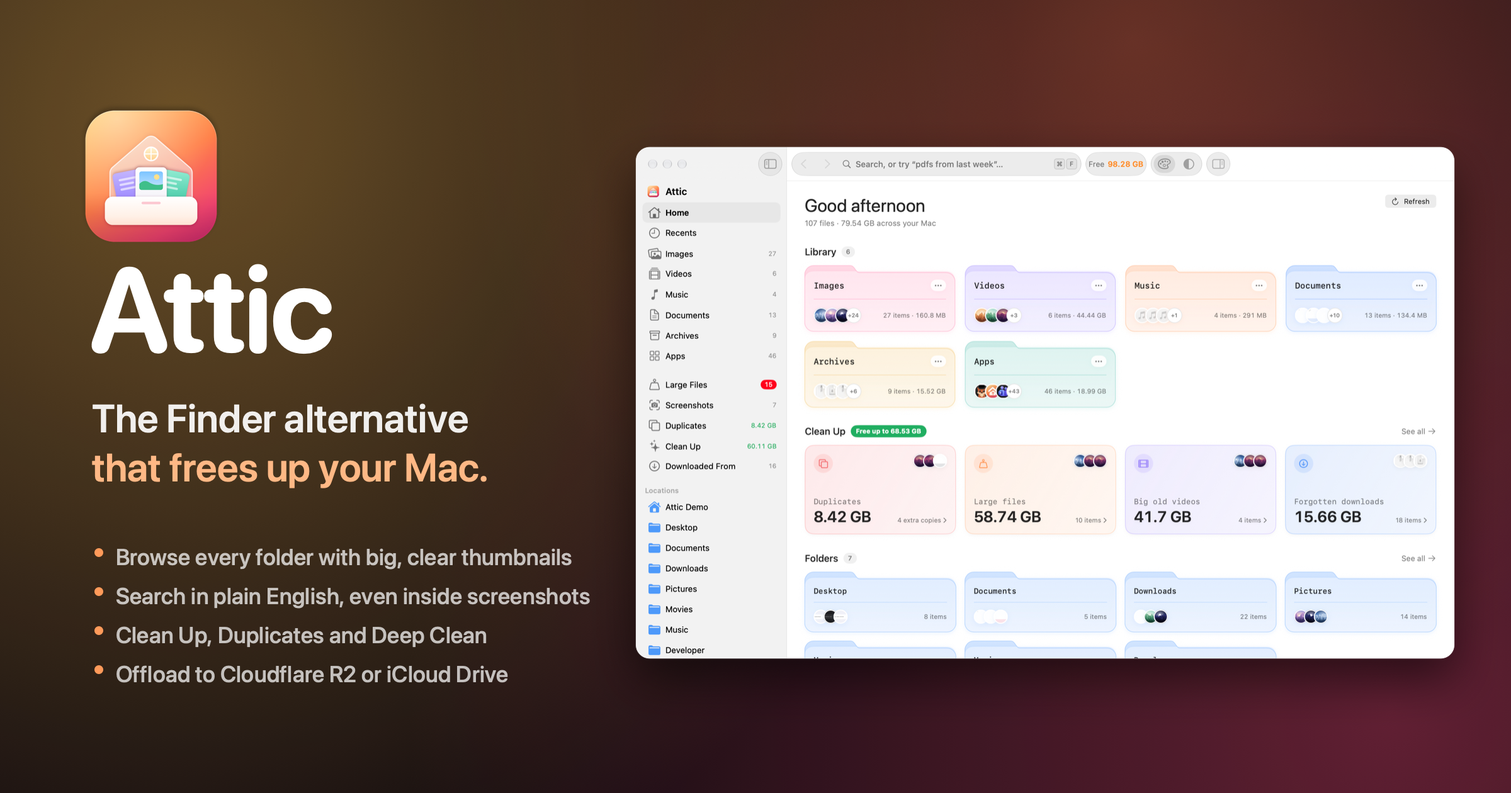
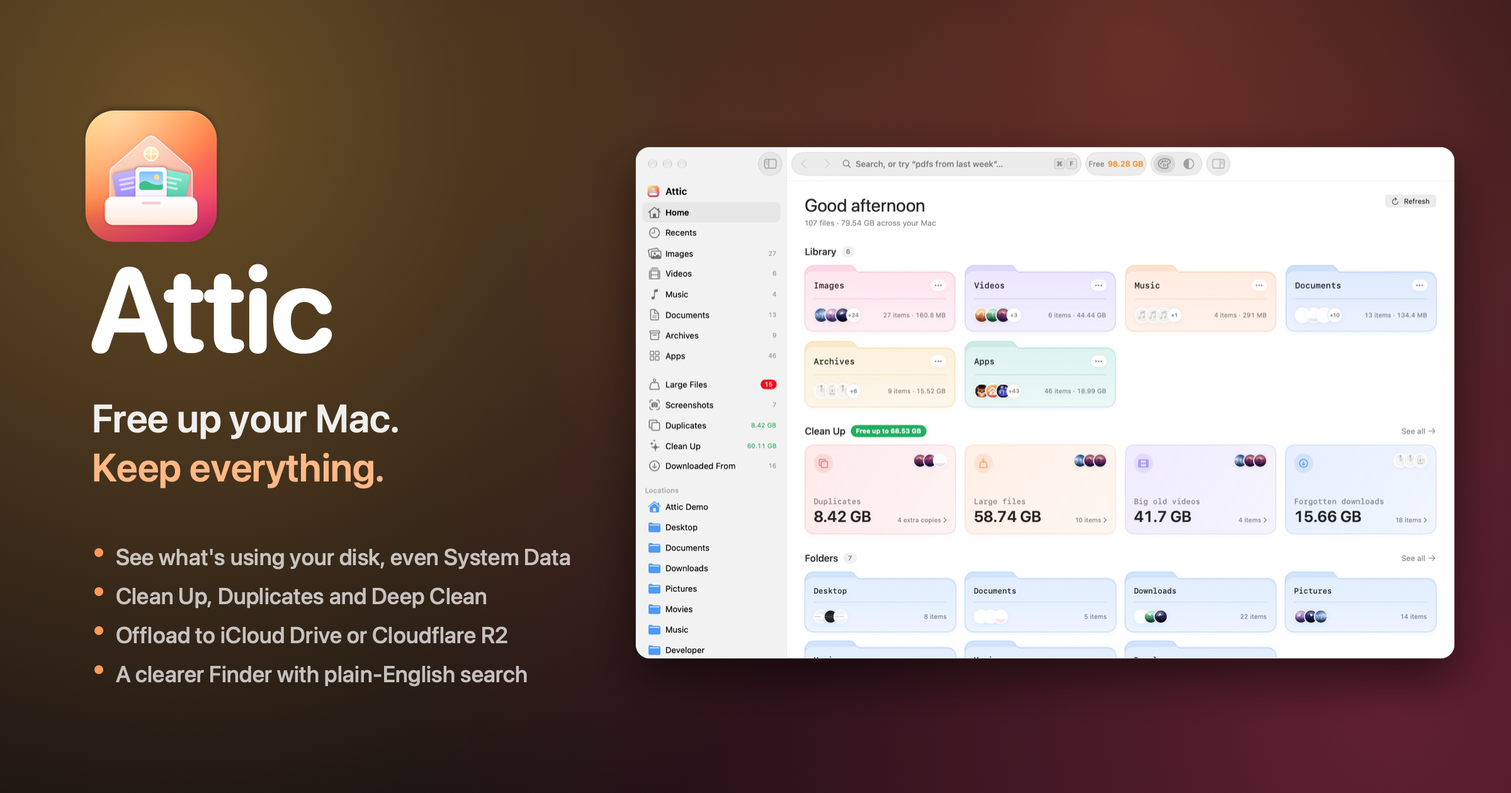
Website and README: lead with freeing up space
Hero, banner and section order now start with Storage, Clean Up and
offload, with the Finder-style browser after. Adds a three-step intro,
storage FAQs, a note that Attic is free during launch, and canonical,
structured data, robots.txt and sitemap.xml for search.

diff --git a/docs/index.html b/docs/index.html
@@ -3,13 +3,19 @@
 <head>
 <meta charset="utf-8">
 <meta name="viewport" content="width=device-width, initial-scale=1">
-<title>Attic: the Finder alternative that frees up your Mac</title>
-<meta name="description" content="Attic is a free, open-source Finder alternative for Mac. Every folder with big, clear thumbnails, plain-English search, Clean Up and Duplicates, and offload to Cloudflare R2 or iCloud Drive. AI that stays on your Mac.">
-<meta property="og:title" content="Attic: the Finder alternative that frees up your Mac">
-<meta property="og:description" content="Free and open source. Browse every folder beautifully, search in plain English, clear out what you don't need, and move big files to R2 or iCloud Drive.">
+<title>Attic: free up space on your Mac and keep everything</title>
+<meta name="description" content="Mac storage almost full? Attic shows what's filling your disk, clears it safely, and moves big files to iCloud Drive or Cloudflare R2. Free and open source.">
+<link rel="canonical" href="https://piyushgit011.github.io/attic-mac/">
+<meta property="og:type" content="website">
+<meta property="og:url" content="https://piyushgit011.github.io/attic-mac/">
+<meta property="og:title" content="Attic: free up your Mac, keep everything">
+<meta property="og:description" content="See what's filling your disk, clear out what you don't need, and move big files to iCloud Drive or Cloudflare R2. Free and open source.">
 <meta property="og:image" content="https://piyushgit011.github.io/attic-mac/images/banner.png">
 <meta name="twitter:card" content="summary_large_image">
 <meta name="color-scheme" content="light dark">
+<script type="application/ld+json">
+{"@context":"https://schema.org","@type":"SoftwareApplication","name":"Attic","operatingSystem":"macOS 14 or later","applicationCategory":"UtilitiesApplication","description":"Attic shows what is filling your Mac's disk, clears it safely, and moves big files to iCloud Drive or Cloudflare R2.","url":"https://piyushgit011.github.io/attic-mac/","downloadUrl":"https://github.com/piyushgit011/attic-mac/releases/latest/download/Attic.dmg","image":"https://piyushgit011.github.io/attic-mac/images/banner.png","license":"https://opensource.org/license/mit","offers":{"@type":"Offer","price":"0","priceCurrency":"USD"}}
+</script>
 <link rel="icon" href="images/icon.png">
 <link rel="preconnect" href="https://fonts.googleapis.com">
 <link rel="preconnect" href="https://fonts.gstatic.com" crossorigin>
@@ -87,6 +93,12 @@
   .points div h3 { font-size: 17px; }
   .points div p { color: var(--dim); margin: 6px 0 0; font-size: 15px; }
 
+  .steps { display: grid; grid-template-columns: repeat(3, 1fr); gap: 18px; margin-top: 54px; text-align: left; }
+  .step { background: var(--panel); border: 1px solid var(--line); border-radius: 20px; padding: 26px; }
+  .step .num { font-weight: 700; font-size: 15px; color: var(--orange); }
+  .step h3 { margin-top: 8px; }
+  .step p { color: var(--dim); margin: 8px 0 0; font-size: 15.5px; }
+
   .tile { background: var(--bg2); border-radius: 28px; padding: 56px 56px 0; overflow: hidden; }
   .tile .shot { border-radius: 16px 16px 0 0; box-shadow: 0 -2px 30px rgba(0,0,0,0.06); }
   .duo { display: grid; grid-template-columns: 1fr 1fr; gap: 22px; }
@@ -137,7 +149,7 @@
   @media (max-width: 900px) {
     nav .links { display: none; }
     .points, .cards3, .keys { grid-template-columns: 1fr 1fr; }
-    .duo, .ai { grid-template-columns: 1fr; }
+    .duo, .ai, .steps { grid-template-columns: 1fr; }
     .ai { padding: 32px; }
     .tile { padding: 28px 22px 0; }
     section { padding-top: 88px; }
@@ -154,10 +166,10 @@
   <div class="wrap">
     <a class="brand" href="#"><img src="images/icon.png" alt="">Attic</a>
     <div class="links">
+      <a href="#cleanup">Clean Up</a>
+      <a href="#cloud">Offload</a>
       <a href="#folders">Folders</a>
       <a href="#search">Search</a>
-      <a href="#cleanup">Clean Up</a>
-      <a href="#cloud">R2 &amp; iCloud</a>
       <a href="#ai">On-device AI</a>
       <a href="#finder">vs Finder</a>
       <a href="https://github.com/piyushgit011/attic-mac">GitHub</a>
@@ -170,8 +182,8 @@
   <div class="wrap">
     <img class="icon" src="images/icon.png" alt="Attic app icon">
     <div class="eyebrow" style="margin-top:18px">Attic 1.3 · Free and open source</div>
-    <h1>The Finder alternative<br><span class="grad">that frees up your Mac.</span></h1>
-    <p class="lead">Every folder with big, clear thumbnails. A search that understands plain English. And a calm, safe way to clear out what you don't need, or move it to Cloudflare R2 or iCloud Drive.</p>
+    <h1>Free up your Mac.<br><span class="grad">Keep everything.</span></h1>
+    <p class="lead">Attic shows what's really filling your disk, System Data included, and helps you clear it safely. Files you want to keep but don't need every day move to iCloud Drive or Cloudflare R2, with a placeholder left behind.</p>
     <div class="ctas">
       <a class="btn primary" href="https://github.com/piyushgit011/attic-mac/releases/latest/download/Attic.dmg">
         <svg viewBox="0 0 24 24" fill="currentColor"><path d="M16.37 12.6c-.03-2.6 2.13-3.86 2.22-3.92-1.21-1.77-3.1-2.01-3.77-2.04-1.6-.16-3.13.95-3.94.95-.82 0-2.07-.93-3.4-.9-1.75.03-3.36 1.02-4.26 2.58-1.82 3.15-.46 7.81 1.3 10.37.87 1.25 1.9 2.65 3.24 2.6 1.3-.05 1.8-.84 3.37-.84 1.57 0 2.02.84 3.4.81 1.4-.02 2.29-1.27 3.14-2.53.99-1.45 1.4-2.86 1.42-2.93-.03-.01-2.72-1.04-2.72-4.15zM13.78 4.95c.71-.87 1.2-2.07 1.06-3.27-1.03.04-2.28.69-3.02 1.55-.66.76-1.24 1.99-1.09 3.16 1.15.09 2.33-.58 3.05-1.44z"/></svg>
@@ -180,17 +192,62 @@
       <a class="btn ghost" href="#film">Watch the film ›</a>
       <a class="btn ghost" href="https://github.com/piyushgit011/attic-mac">View on GitHub ›</a>
     </div>
-    <div class="meta">Free · MIT licensed · macOS 14 or later · Apple silicon &amp; Intel · Notarized by Apple</div>
+    <div class="meta">Free during launch · Open source (MIT) · macOS 14 or later · Apple silicon &amp; Intel · Notarized by Apple</div>
     <div class="film" id="film">
       <video src="media/attic-film.mp4" poster="images/video-poster.jpg" controls playsinline preload="metadata"></video>
+    </div>
+    <div class="steps">
+      <div class="step"><div class="num">1</div><h3>See what's using it</h3><p>Storage measures the whole disk, including what macOS calls System Data: caches, developer tools, simulators and swap.</p></div>
+      <div class="step"><div class="num">2</div><h3>Clear what you don't need</h3><p>Forgotten downloads, duplicates, old installers and project folders that can be rebuilt. You review everything, and it goes to the Trash.</p></div>
+      <div class="step"><div class="num">3</div><h3>Offload what you want to keep</h3><p>Big files move to iCloud Drive or your own Cloudflare R2 bucket. A placeholder stays in the folder, and opening it brings the file back.</p></div>
     </div>
   </div>
 </header>
 
+<section id="cleanup">
+  <div class="wrap">
+    <div class="section-head">
+      <span class="eyebrow">Clean Up</span>
+      <h2>Gigabytes back.<br>Safely.</h2>
+      <p class="lead">Attic finds the things you forgot about and shows what they're worth. You review everything, and it all goes to the Trash, so you can put it back.</p>
+    </div>
+    <div class="tile"><div class="shot"><img src="gifs/cleanup.gif" alt="Clean Up, Duplicates and Deep Clean" loading="lazy"></div></div>
+    <div class="cards3">
+      <div class="card"><div class="ico">✨</div><h3>Clean Up cards</h3><p>Forgotten downloads, old installers, old screenshots, big old videos and apps you haven't opened in months.</p></div>
+      <div class="card"><div class="ico">🪞</div><h3>Duplicates</h3><p>Identical files found by their contents. One copy stays; click another to keep it instead. APFS clones are counted correctly.</p></div>
+      <div class="card"><div class="ico">🛠</div><h3>Deep Clean</h3><p><code>node_modules</code>, Xcode builds, Python environments and caches. Projects you're working on are never picked.</p></div>
+      <div class="card"><div class="ico">📊</div><h3>Storage</h3><p>What “System Data” really is: projects, app data, caches, developer tools, simulators, swap and macOS.</p></div>
+      <div class="card"><div class="ico">🧠</div><h3>Memory &amp; Swap</h3><p>See how much swap is on your disk and which apps hold memory, with Quit right there.</p></div>
+      <div class="card"><div class="ico">📥</div><h3>Downloaded From</h3><p>Every download grouped by where it came from: Gmail, Slack, ChatGPT, GitHub or any website.</p></div>
+    </div>
+  </div>
+</section>
+
+<section id="cloud">
+  <div class="wrap">
+    <div class="section-head">
+      <span class="eyebrow">Offload</span>
+      <h2>Big files in the cloud.<br>A placeholder on your Mac.</h2>
+      <p class="lead">Move big files to your own Cloudflare R2 bucket or to iCloud Drive. Attic removes the copy on your Mac only after the cloud copy checks out, and app libraries like Photos always stay put.</p>
+    </div>
+    <div class="tile"><div class="shot"><img src="gifs/offload.gif" alt="Offloading videos to Cloudflare R2" loading="lazy"></div></div>
+    <div class="tablewrap" style="margin-top:22px">
+      <table>
+        <tr><th></th><th>Cloudflare R2</th><th>iCloud Drive</th></tr>
+        <tr><td>Where it goes</td><td>A private bucket of your own</td><td>iCloud Drive ▸ Attic</td></tr>
+        <tr><td>What stays on your Mac</td><td>A tiny <code>name.ext.attic</code> placeholder</td><td>A link in the original folder</td></tr>
+        <tr><td>Getting it back</td><td>Double-click the placeholder</td><td>Just open it</td></tr>
+        <tr><td>Safety check</td><td>MD5 on every part, then a size check in R2</td><td>Waits for iCloud to confirm the upload</td></tr>
+        <tr><td>Cost</td><td>About $0.015 per GB a month, no download fees</td><td>Your iCloud plan</td></tr>
+      </table>
+    </div>
+  </div>
+</section>
+
 <section id="folders">
   <div class="wrap">
     <div class="section-head">
-      <span class="eyebrow">Folders</span>
+      <span class="eyebrow">Also a Finder alternative</span>
       <h2>Every folder.<br>Finally easy to see.</h2>
       <p class="lead">Your home folder, Desktop, Documents, Downloads and the rest open right in Attic. Folders show the files inside them, files show big thumbnails, and sizes appear as you browse.</p>
     </div>
@@ -242,46 +299,6 @@
   </div>
 </section>
 
-<section id="cleanup">
-  <div class="wrap">
-    <div class="section-head">
-      <span class="eyebrow">Clean Up</span>
-      <h2>Gigabytes back.<br>Safely.</h2>
-      <p class="lead">Attic finds the things you forgot about and shows what they're worth. You review everything, and it all goes to the Trash, so you can put it back.</p>
-    </div>
-    <div class="tile"><div class="shot"><img src="gifs/cleanup.gif" alt="Clean Up, Duplicates and Deep Clean" loading="lazy"></div></div>
-    <div class="cards3">
-      <div class="card"><div class="ico">✨</div><h3>Clean Up cards</h3><p>Forgotten downloads, old installers, old screenshots, big old videos and apps you haven't opened in months.</p></div>
-      <div class="card"><div class="ico">🪞</div><h3>Duplicates</h3><p>Identical files found by their contents. One copy stays; click another to keep it instead. APFS clones are counted correctly.</p></div>
-      <div class="card"><div class="ico">🛠</div><h3>Deep Clean</h3><p><code>node_modules</code>, Xcode builds, Python environments and caches. Projects you're working on are never picked.</p></div>
-      <div class="card"><div class="ico">📊</div><h3>Storage</h3><p>What “System Data” really is: projects, app data, caches, developer tools, simulators, swap and macOS.</p></div>
-      <div class="card"><div class="ico">🧠</div><h3>Memory &amp; Swap</h3><p>See how much swap is on your disk and which apps hold memory, with Quit right there.</p></div>
-      <div class="card"><div class="ico">📥</div><h3>Downloaded From</h3><p>Every download grouped by where it came from: Gmail, Slack, ChatGPT, GitHub or any website.</p></div>
-    </div>
-  </div>
-</section>
-
-<section id="cloud">
-  <div class="wrap">
-    <div class="section-head">
-      <span class="eyebrow">Offload</span>
-      <h2>Big files in the cloud.<br>A placeholder on your Mac.</h2>
-      <p class="lead">Move big files to your own Cloudflare R2 bucket or to iCloud Drive. Attic removes the copy on your Mac only after the cloud copy checks out, and app libraries like Photos always stay put.</p>
-    </div>
-    <div class="tile"><div class="shot"><img src="gifs/offload.gif" alt="Offloading videos to Cloudflare R2" loading="lazy"></div></div>
-    <div class="tablewrap" style="margin-top:22px">
-      <table>
-        <tr><th></th><th>Cloudflare R2</th><th>iCloud Drive</th></tr>
-        <tr><td>Where it goes</td><td>A private bucket of your own</td><td>iCloud Drive ▸ Attic</td></tr>
-        <tr><td>What stays on your Mac</td><td>A tiny <code>name.ext.attic</code> placeholder</td><td>A link in the original folder</td></tr>
-        <tr><td>Getting it back</td><td>Double-click the placeholder</td><td>Just open it</td></tr>
-        <tr><td>Safety check</td><td>MD5 on every part, then a size check in R2</td><td>Waits for iCloud to confirm the upload</td></tr>
-        <tr><td>Cost</td><td>About $0.015 per GB a month, no download fees</td><td>Your iCloud plan</td></tr>
-      </table>
-    </div>
-  </div>
-</section>
-
 <section id="ai">
   <div class="wrap">
     <div class="ai">
@@ -311,13 +328,13 @@
     <div class="tablewrap">
       <table>
         <tr><th></th><th>Attic</th><th>Finder</th></tr>
+        <tr><td>Freeing up space</td><td class="yes">Clean Up, Deep Clean, Storage, swap, R2 and iCloud offload</td><td>System Settings ▸ Storage</td></tr>
+        <tr><td>Duplicates</td><td class="yes">Found by contents, with the real space you'd get back</td><td>Nothing built in</td></tr>
         <tr><td>Browsing a folder</td><td class="yes">Folder cards with files peeking out, big thumbnails, sizes measured for you</td><td>Icons, lists and columns; folder sizes off by default</td></tr>
         <tr><td>Seeing what you have</td><td class="yes">Images, videos, music, documents, archives and apps, each on its own shelf</td><td>Folder by folder</td></tr>
         <tr><td>Searching</td><td class="yes">“pdfs from last week”, shown as filters you can change</td><td>Search rules added one at a time</td></tr>
         <tr><td>Text in screenshots</td><td class="yes">Searchable, and copied from many images at once</td><td>Found by Spotlight; copied one image at a time</td></tr>
         <tr><td>Where downloads came from</td><td class="yes">Grouped by source</td><td>One file at a time in Get Info</td></tr>
-        <tr><td>Duplicates</td><td class="yes">Found by contents, with the real space you'd get back</td><td>Nothing built in</td></tr>
-        <tr><td>Freeing up space</td><td class="yes">Clean Up, Deep Clean, Storage, swap, R2 and iCloud offload</td><td>System Settings ▸ Storage</td></tr>
       </table>
     </div>
   </div>
@@ -350,7 +367,7 @@
   <div class="wrap">
     <div class="section-head">
       <span class="eyebrow">Open source</span>
-      <h2>Free. Open. Yours.</h2>
+      <h2>Open. Private. Yours.</h2>
       <p class="lead">MIT licensed, native SwiftUI, no third-party dependencies, no account, no tracking and no server. Read every line or build it yourself.</p>
     </div>
     <pre>brew install xcodegen
@@ -370,29 +387,31 @@ open build/dd/Build/Products/Release/Attic.app</pre>
 <section id="faq">
   <div class="wrap" style="max-width:820px">
     <div class="section-head"><h2>Questions</h2></div>
+    <details><summary>My Mac says storage is almost full. Where do I start?</summary><p>Open Storage to see what's using the disk, then Clean Up for the quick wins: forgotten downloads, duplicates and old installers. If you write code, Deep Clean finds <code>node_modules</code>, build folders and caches that can be rebuilt. Everything you remove goes to the Trash first.</p></details>
+    <details><summary>What is System Data, and can Attic shrink it?</summary><p>System Data is where macOS puts whatever it can't label: caches, app data, developer tools, simulators and swap. Attic's Storage screen breaks it down and shows the biggest folders in each part. Deep Clean clears the parts that can be rebuilt, and Memory &amp; Swap shows which apps to quit so macOS can shrink its swap files.</p></details>
     <details><summary>Does Attic replace Finder?</summary><p>It sits next to it. Attic shows the same files and folders with bigger previews, better search and tools to free up space, and “Show in Finder” is always there.</p></details>
     <details><summary>Does Attic upload my files?</summary><p>Only files you choose to offload, and only to your own R2 bucket or your iCloud Drive. Browsing, search, text recognition and the AI all run on your Mac.</p></details>
     <details><summary>Will it delete things?</summary><p>Clean Up, Duplicates and Deep Clean move items to the Trash, so you can always put them back. Offloading removes a local copy only after the cloud copy checks out.</p></details>
     <details><summary>Why aren't my recent screenshots showing?</summary><p>If your Mac copies screenshots to the clipboard (⇧⌘5 ▸ Options ▸ Clipboard), no file is ever saved. Turn on Keep Screenshot History in Attic and each new one is saved to Pictures ▸ Screenshots.</p></details>
     <details><summary>What do I need for the AI search?</summary><p>A Mac with Apple Intelligence turned on (macOS 26 or later). Without it, search still works using Attic's own rules.</p></details>
-    <details><summary>Is it really free?</summary><p>Yes. MIT licensed, no subscription, no account. If R2 is your offload target, Cloudflare bills you directly for storage (about $0.015 per GB a month).</p></details>
+    <details><summary>Is it free?</summary><p>Yes. Attic is free while it's new, with no account and no subscription. The code is MIT licensed and stays that way. Later on, the ready-to-run, notarized download may become a small one-time purchase, and you will always be able to build it yourself. If R2 is your offload target, Cloudflare bills you directly for storage (about $0.015 per GB a month).</p></details>
   </div>
 </section>
 
 <div class="final">
   <div class="wrap">
     <img src="images/icon.png" alt="">
-    <h2 style="margin-top:18px">Give your files<br><span class="grad">a home that's easy to see.</span></h2>
+    <h2 style="margin-top:18px">See where your space went.<br><span class="grad">Then take it back.</span></h2>
     <div class="ctas">
       <a class="btn primary" href="https://github.com/piyushgit011/attic-mac/releases/latest/download/Attic.dmg">Download Attic for Mac</a>
     </div>
-    <div class="meta">Free and open source · macOS 14 or later</div>
+    <div class="meta">Free during launch · Open source · macOS 14 or later</div>
   </div>
 </div>
 
 <footer>
   <div class="wrap">
-    <span>Attic · Free and open source (MIT). Not made by or affiliated with Apple.</span>
+    <span>Attic · Open source (MIT). Not made by or affiliated with Apple.</span>
     <span><a href="https://github.com/piyushgit011/attic-mac">GitHub</a> · <a href="https://github.com/piyushgit011/attic-mac/releases">Releases</a> · <a href="https://github.com/piyushgit011/attic-mac/blob/main/CHANGELOG.md">Changelog</a></span>
   </div>
 </footer>

diff --git a/branding/make-readme-art.swift b/branding/make-readme-art.swift
@@ -72,10 +72,10 @@ if let homeURL = shotURL("home") {
     let icon = load(root.appendingPathComponent("branding/attic-icon-1024.png"))
     ctx.draw(icon, in: CGRect(x: 110, y: H - 150 - 260, width: 260, height: 260))
     text(ctx, "Attic", 140, H - 600, 190, .bold, .white, rounded: true, kern: -4)
-    text(ctx, "The Finder alternative", 146, H - 700, 62, .semibold, NSColor(white: 1, alpha: 0.92))
-    text(ctx, "that frees up your Mac.", 146, H - 778, 62, .semibold, NSColor(srgbRed: 1, green: 0.72, blue: 0.52, alpha: 1))
-    let bullets = ["Browse every folder with big, clear thumbnails", "Search in plain English, even inside screenshots",
-                   "Clean Up, Duplicates and Deep Clean", "Offload to Cloudflare R2 or iCloud Drive"]
+    text(ctx, "Free up your Mac.", 146, H - 700, 62, .semibold, NSColor(white: 1, alpha: 0.92))
+    text(ctx, "Keep everything.", 146, H - 778, 62, .semibold, NSColor(srgbRed: 1, green: 0.72, blue: 0.52, alpha: 1))
+    let bullets = ["See what's using your disk, even System Data", "Clean Up, Duplicates and Deep Clean",
+                   "Offload to iCloud Drive or Cloudflare R2", "A clearer Finder with plain-English search"]
     for (i, b) in bullets.enumerated() {
         ctx.setFillColor(color(0xFF9A5A)); ctx.fillEllipse(in: CGRect(x: 150, y: H - 885 - CGFloat(i) * 62, width: 14, height: 14))
         text(ctx, b, 184, H - 906 - CGFloat(i) * 62, 36, .medium, NSColor(white: 1, alpha: 0.72))

diff --git a/README.md b/README.md
@@ -18,9 +18,10 @@
 </p>
 
 <p align="center">
-  <b>Attic is a free, open-source Finder alternative for your Mac.</b><br>
-  Every folder with big, clear thumbnails, a search that understands plain English, and a quick way to clear out<br>
-  what you don't need, or move it to <b>Cloudflare R2</b> or <b>iCloud Drive</b> and keep a placeholder you can double-click to bring it back.
+  <b>Attic frees up space on your Mac without losing anything.</b><br>
+  It shows what's really filling your disk, clears out what you don't need, and moves big files to<br>
+  <b>iCloud Drive</b> or <b>Cloudflare R2</b>, leaving a placeholder you can open to bring them back.<br>
+  It's also a clearer way to browse and search your files than Finder. Free and open source.
 </p>
 
 <p align="center">
@@ -39,49 +40,6 @@ Grab **Attic.dmg** from the [latest release](https://github.com/piyushgit011/att
 The first time you open it, macOS asks to let Attic see your Desktop, Documents and Downloads. That's what lets it show your files and work out what's using space.
 
 ## What it does
-
-### 📁 Every folder, the way Finder should show it
-
-Locations in the sidebar (your home folder, Desktop, Documents, Downloads, Pictures, Movies, Music, Developer, iCloud Drive and Applications) open like Finder, only clearer. Folders are cards with a few of their files peeking out, files are big thumbnails with their kind and size, and a path bar at the top takes you back up.
-
-- **Explore:** double-click to open a folder, ⌘[ and ⌘] to go back and forward, ⌘↑ for the folder above, ⇧⌘G to go to any path.
-- **Organize:** drag files onto a folder (in the grid, the path bar or the sidebar) to move them, hold ⌥ to copy. New Folder (⇧⌘N), Rename, Move to Trash, Copy Path.
-- **See what's big:** folder sizes are measured in the background as you browse, so you can sort a folder by size.
-- **Pin any folder** to the sidebar, show hidden files with ⇧⌘., and changes made in Finder appear right away.
-
-<p align="center"><img src="docs/gifs/folders.gif" alt="Browsing folders in Attic" width="90%"></p>
-
-<table>
-  <tr>
-    <td><img src="docs/images/folders.jpg" alt="Your home folder in Attic"></td>
-    <td><img src="docs/images/folder-downloads.jpg" alt="The Downloads folder in Attic"></td>
-  </tr>
-</table>
-
-### 🎨 Two looks: Playful and Minimal
-
-Playful gives every kind of file its own soft colour. Minimal is black, white and grey, with your files peeking out of plain folders. Switch from the top bar or with ⌃⌘T, and pick Light, Dark or your Mac's setting in Settings.
-
-<p align="center"><img src="docs/gifs/looks.gif" alt="Switching between the Playful and Minimal looks" width="90%"></p>
-
-<table>
-  <tr>
-    <td><img src="docs/images/home.jpg" alt="Attic Home in the Playful look"></td>
-    <td><img src="docs/images/home-minimal.jpg" alt="Attic Home in the Minimal look"></td>
-  </tr>
-</table>
-
-### 🔎 Search the way you talk
-
-Type "pdfs from last week over 5 mb" or "screenshots with wifi password". Attic shows how it read your search as chips you can remove one by one, and you can narrow any list with From, Kind, Date and Size filters. It also reads the text inside your screenshots on your Mac (Apple Vision), so you can find that Wi‑Fi password, tracking number or receipt by what it says. Save a search to the sidebar and it always shows what matches right now.
-
-<p align="center"><img src="docs/gifs/search.gif" alt="Plain-English search finding a screenshot by the text inside it" width="90%"></p>
-
-### 📸 Screenshots, even the ones you only copied
-
-If your Mac copies screenshots to the clipboard instead of saving them, they're gone once you copy something else. Turn on **Keep Screenshot History** and Attic saves each new one to Pictures ▸ Screenshots, where search can read the text in it. It only keeps real screenshots (macOS tags them), not other images you copy.
-
-<p align="center"><img src="docs/images/screenshots.jpg" alt="Screenshots in Attic" width="90%"></p>
 
 ### ✨ Clean Up, Duplicates and Deep Clean
 
@@ -137,6 +95,49 @@ Files already in iCloud (Desktop & Documents) just get **Remove Download**: they
 
 The R2 browser also works on its own, like a Finder window for your bucket: upload by drag and drop, download, make folders, and copy private links that expire after 7 days.
 
+### 📁 Every folder, the way Finder should show it
+
+Locations in the sidebar (your home folder, Desktop, Documents, Downloads, Pictures, Movies, Music, Developer, iCloud Drive and Applications) open like Finder, only clearer. Folders are cards with a few of their files peeking out, files are big thumbnails with their kind and size, and a path bar at the top takes you back up.
+
+- **Explore:** double-click to open a folder, ⌘[ and ⌘] to go back and forward, ⌘↑ for the folder above, ⇧⌘G to go to any path.
+- **Organize:** drag files onto a folder (in the grid, the path bar or the sidebar) to move them, hold ⌥ to copy. New Folder (⇧⌘N), Rename, Move to Trash, Copy Path.
+- **See what's big:** folder sizes are measured in the background as you browse, so you can sort a folder by size.
+- **Pin any folder** to the sidebar, show hidden files with ⇧⌘., and changes made in Finder appear right away.
+
+<p align="center"><img src="docs/gifs/folders.gif" alt="Browsing folders in Attic" width="90%"></p>
+
+<table>
+  <tr>
+    <td><img src="docs/images/folders.jpg" alt="Your home folder in Attic"></td>
+    <td><img src="docs/images/folder-downloads.jpg" alt="The Downloads folder in Attic"></td>
+  </tr>
+</table>
+
+### 🎨 Two looks: Playful and Minimal
+
+Playful gives every kind of file its own soft colour. Minimal is black, white and grey, with your files peeking out of plain folders. Switch from the top bar or with ⌃⌘T, and pick Light, Dark or your Mac's setting in Settings.
+
+<p align="center"><img src="docs/gifs/looks.gif" alt="Switching between the Playful and Minimal looks" width="90%"></p>
+
+<table>
+  <tr>
+    <td><img src="docs/images/home.jpg" alt="Attic Home in the Playful look"></td>
+    <td><img src="docs/images/home-minimal.jpg" alt="Attic Home in the Minimal look"></td>
+  </tr>
+</table>
+
+### 🔎 Search the way you talk
+
+Type "pdfs from last week over 5 mb" or "screenshots with wifi password". Attic shows how it read your search as chips you can remove one by one, and you can narrow any list with From, Kind, Date and Size filters. It also reads the text inside your screenshots on your Mac (Apple Vision), so you can find that Wi‑Fi password, tracking number or receipt by what it says. Save a search to the sidebar and it always shows what matches right now.
+
+<p align="center"><img src="docs/gifs/search.gif" alt="Plain-English search finding a screenshot by the text inside it" width="90%"></p>
+
+### 📸 Screenshots, even the ones you only copied
+
+If your Mac copies screenshots to the clipboard instead of saving them, they're gone once you copy something else. Turn on **Keep Screenshot History** and Attic saves each new one to Pictures ▸ Screenshots, where search can read the text in it. It only keeps real screenshots (macOS tags them), not other images you copy.
+
+<p align="center"><img src="docs/images/screenshots.jpg" alt="Screenshots in Attic" width="90%"></p>
+
 ### ✺ AI that stays on your Mac
 
 Attic uses the intelligence that already ships with macOS, and nothing is ever sent anywhere:
@@ -170,13 +171,13 @@ Keep using both: "Show in Finder" is always one click away.
 
 | | Attic | Finder |
 |---|---|---|
+| Freeing up space | Clean Up cards, Deep Clean, Storage, swap, R2 and iCloud offload | System Settings ▸ Storage |
+| Duplicates | Found by contents, with the real space you'd get back | Nothing built in |
 | Browsing a folder | Folder cards with files peeking out, big thumbnails, sizes measured for you | Icons, lists and columns; folder sizes off by default |
 | Seeing what you have | Images, videos, music, documents, archives and apps, each on its own shelf | Folder by folder |
 | Searching | "pdfs from last week", shown as filters you can change | Search rules added one at a time |
 | Text inside screenshots | Searchable, and copied from many images at once | Spotlight can find it; Preview copies one at a time |
 | Where a download came from | Grouped by source | One file at a time in Get Info |
-| Duplicates | Found by contents, with the real space you'd get back | Nothing built in |
-| Freeing up space | Clean Up cards, Deep Clean, Storage, swap, R2 and iCloud offload | System Settings ▸ Storage |
 
 ## Keyboard shortcuts
 
@@ -212,7 +213,9 @@ Other buckets on the same account are **read-only** in Attic unless you turn on 
 
 ## Open source
 
-Attic is MIT licensed and has no server, account or tracking. It's a Finder alternative built in the open: if Finder does something better, open an issue. Contributions are welcome. See [CONTRIBUTING.md](CONTRIBUTING.md), and report security issues privately as described in [SECURITY.md](SECURITY.md). Every push is built and self-tested on a GitHub Mac runner.
+Attic is MIT licensed and has no server, account or tracking. It's built in the open: if Finder or another cleaner does something better, open an issue. Contributions are welcome. See [CONTRIBUTING.md](CONTRIBUTING.md), and report security issues privately as described in [SECURITY.md](SECURITY.md). Every push is built and self-tested on a GitHub Mac runner.
+
+Attic is free while it's new. The code stays MIT licensed. Later on, the ready-to-run, notarized download may become a small one-time purchase, and you will always be able to build it yourself.
 
 ## Build from source
 
